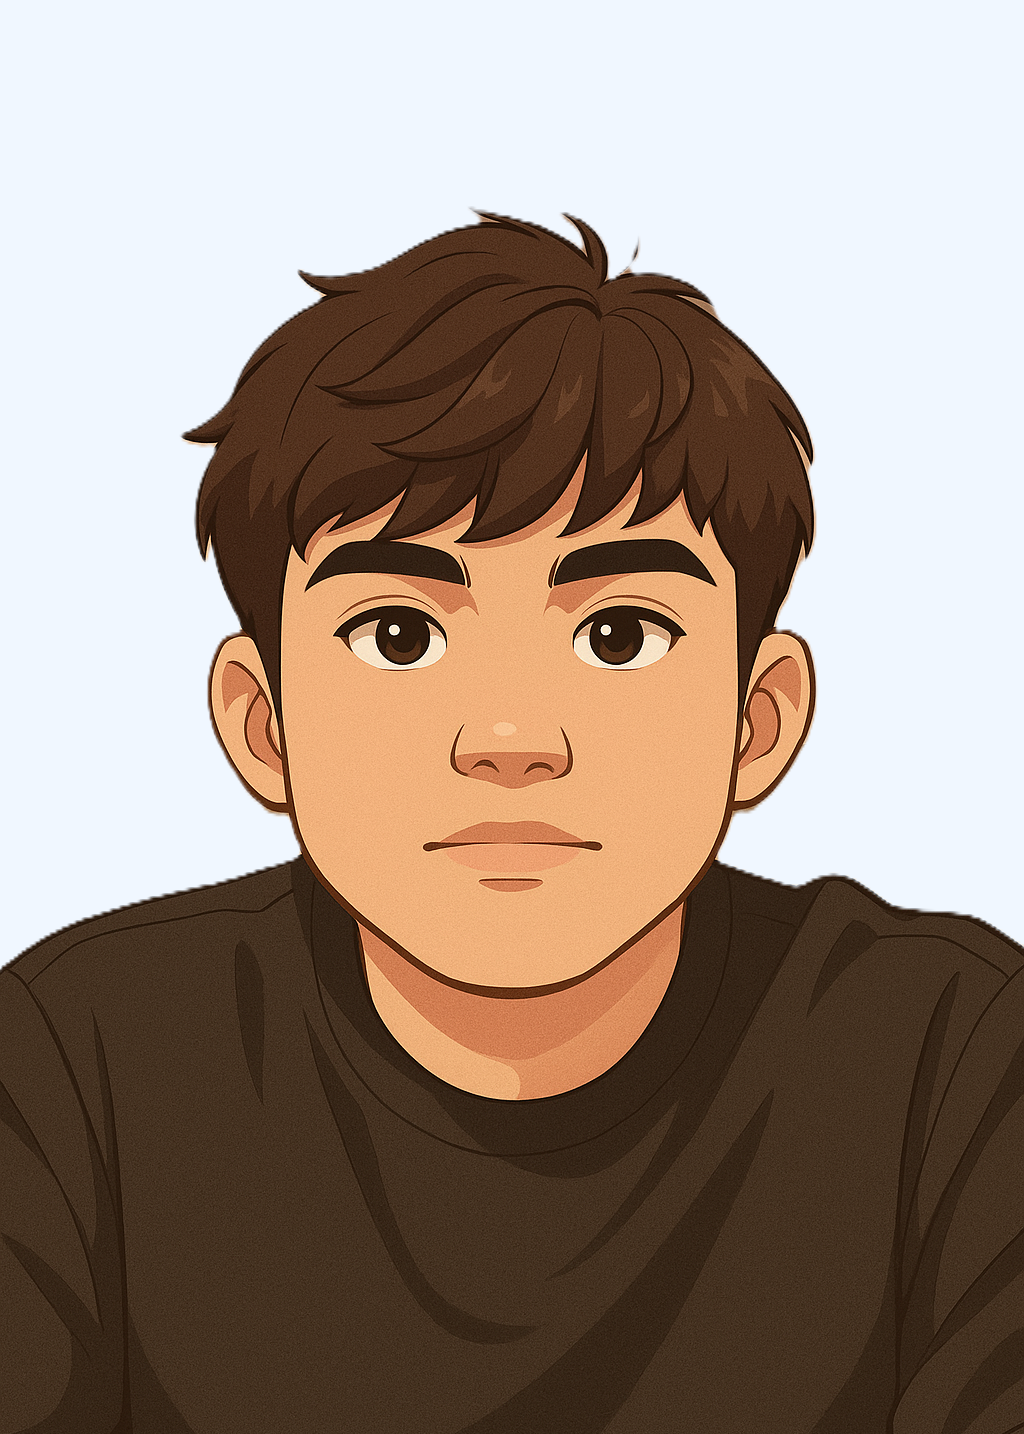
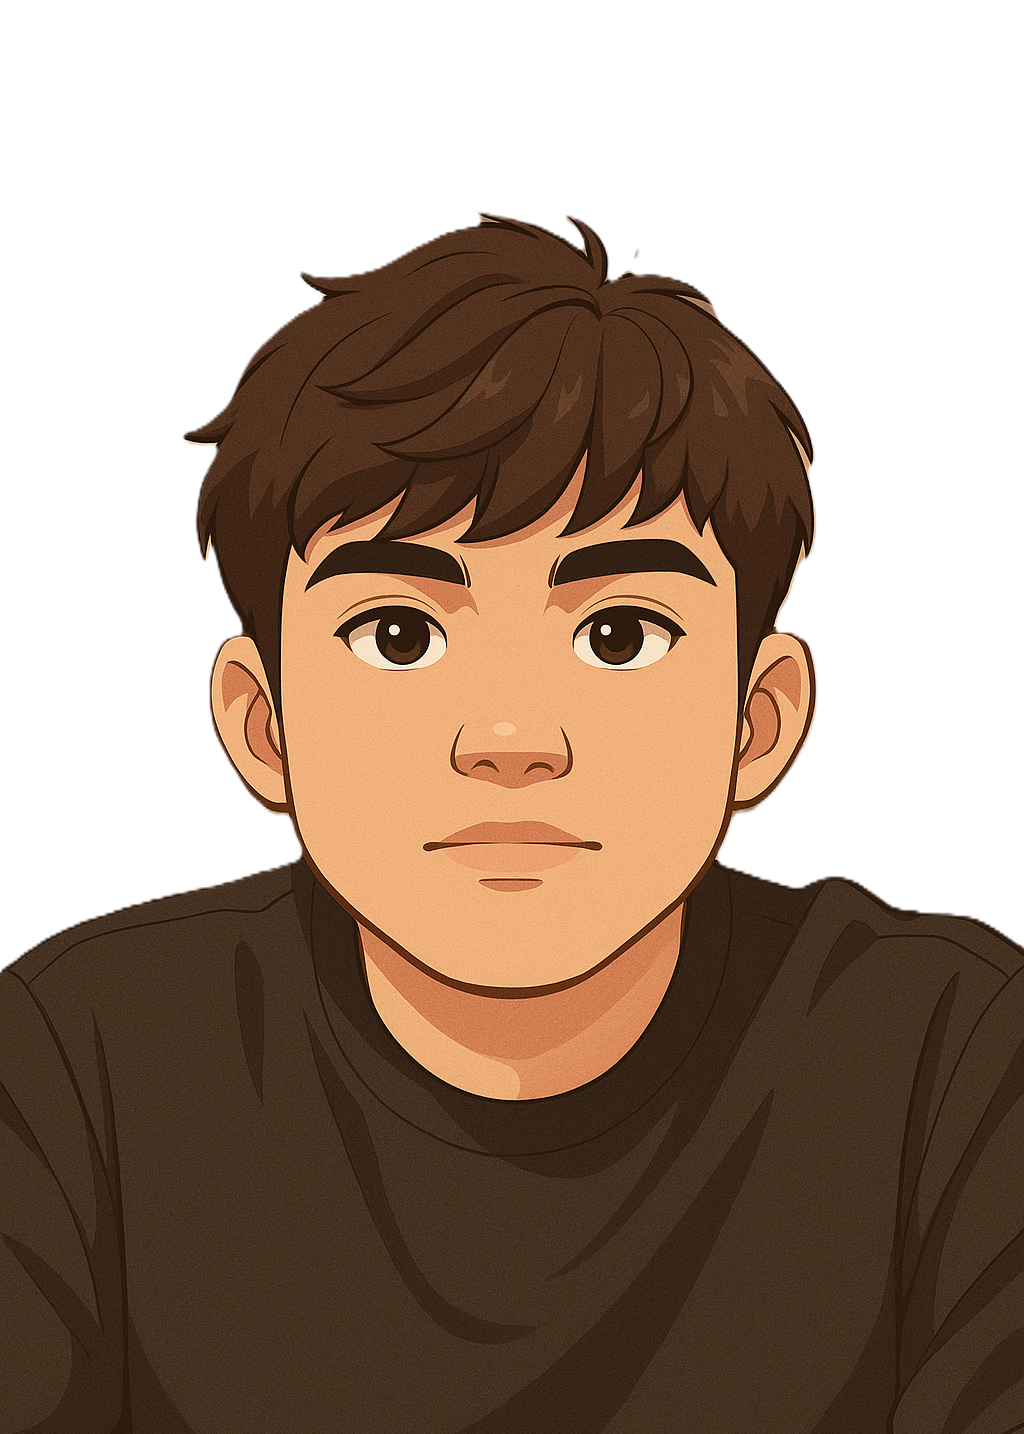
updated

diff --git a/frontend/src/app/features/portfolio/about/about.html b/frontend/src/app/features/portfolio/about/about.html
@@ -1,19 +1,53 @@
-<app-section>
-    <div class="about-container" id="about">
-        <app-card class="about-card">
-        <h2 class="about-heading">About Me</h2>
-        <p class="about-description">
-            I'm Kenneth, a dedicated Full-Stack Engineer with expertise in Java, Spring Boot, and modern frontend frameworks. 
-            I specialize in building scalable web applications that deliver seamless user experiences. 
-            My passion lies in crafting efficient backend systems while ensuring intuitive and engaging frontends.
+<app-section id="about" bgClass="min-h-screen flex flex-col md:flex-row items-center justify-center px-8 md:px-20 py-16 bg-[color:var(--portfolio-bg)]">
+    <!-- Left side: Logo / Image -->
+    <div class="flex-1 flex justify-center mb-10 md:mb-0">
+        <div class="relative w-48 h-48 rounded-full backdrop-blur-md bg-white/10 border border-white/20 shadow-lg flex items-center justify-center">
+        <img 
+            src="me_ai.png" 
+            alt="Vier Logo" 
+            class="w-full h-full rounded-full object-cover shadow-lg border-4 border-white"
+        />
+        </div>
+    </div>
+
+    <!-- Right side: Story -->
+    <div class="flex-1 text-center md:text-left space-y-6">
+        <h2 class="text-3xl font-bold text-[color:var(--portfolio-heading)]">About Me</h2>
+        <p class="text-[color:var(--portfolio-text)] leading-relaxed">
+        Hey there 👋 I’m <strong>Kenneth Vier</strong> — a passionate developer who believes in building things that are not only functional but meaningful.
+        I enjoy turning ideas into code, learning new technologies, and creating elegant solutions that simplify complexity.
         </p>
-        <p class="about-description">
-            With a strong foundation in both backend and frontend technologies, I thrive on creating solutions that are not only robust but also user-centric. 
-            I am constantly exploring new technologies and methodologies to enhance my skills and deliver cutting-edge applications.
+        <p class="text-[color:var(--portfolio-text)] leading-relaxed">
+        My journey started with curiosity — understanding how things work, and evolved into a drive for clarity, innovation, and continuous improvement.
+        I value structure, simplicity, and clean design — both in code and in life.
         </p>
-        <p class="about-description">
-            Let's connect and explore how we can collaborate to build innovative web solutions!
-        </p>
-        </app-card>
+    </div>
+
+</app-section>
+
+<app-section bgClass="bg-[color:var(--portfolio-bg)] px-8 md:px-20 pb-20">
+    <!-- Timeline -->
+    <div class="max-w-3xl mx-auto">
+        <h3 class="text-2xl font-semibold text-[color:var(--portfolio-heading)] mb-8 text-center">My Journey 🚀</h3>
+        <div class="space-y-10 border-l border-[color:var(--portfolio-accent)] pl-6">
+        
+            <div class="relative">
+                <div class="absolute -left-3 top-0 w-6 h-6 bg-[color:var(--portfolio-accent)] rounded-full"></div>
+                <h4 class="text-lg font-semibold text-[color:var(--portfolio-heading)]">2024 - Present</h4>
+                <p class="text-[color:var(--portfolio-text)]">Joined <strong>Be Unique Inc.</strong> as an IT Engineer — working on full-stack development using Java, Spring Boot, and modern frontend tools.</p>
+            </div>
+
+            <div class="relative">
+                <div class="absolute -left-3 top-0 w-6 h-6 bg-[color:var(--portfolio-accent)] rounded-full"></div>
+                <h4 class="text-lg font-semibold text-[color:var(--portfolio-heading)]">2023 - 2024</h4>
+                <p class="text-[color:var(--portfolio-text)]">Built small projects and personal experiments that strengthened my foundation in clean coding, design, and backend logic.</p>
+            </div>
+
+            <div class="relative">
+                <div class="absolute -left-3 top-0 w-6 h-6 bg-[color:var(--portfolio-accent)] rounded-full"></div>
+                <h4 class="text-lg font-semibold text-[color:var(--portfolio-heading)]">Earlier</h4>
+                <p class="text-[color:var(--portfolio-text)]">A curious learner exploring everything tech — from web design to system logic. That curiosity led me here, continuously improving and creating.</p>
+            </div>
+        </div>
     </div>
 </app-section>

diff --git a/frontend/src/app/features/portfolio/about/about.ts b/frontend/src/app/features/portfolio/about/about.ts
@@ -4,7 +4,7 @@ import { Card } from "../../../components/card/card";
 
 @Component({
   selector: 'app-about',
-  imports: [Section, Card],
+  imports: [Section],
   templateUrl: './about.html',
   styleUrl: './about.scss'
 })

diff --git a/frontend/src/app/features/portfolio/portfolio-component.html b/frontend/src/app/features/portfolio/portfolio-component.html
@@ -1,3 +1,3 @@
 <app-header/>
 <app-hero></app-hero>
-<!-- <app-about></app-about> -->
+<app-about></app-about>
